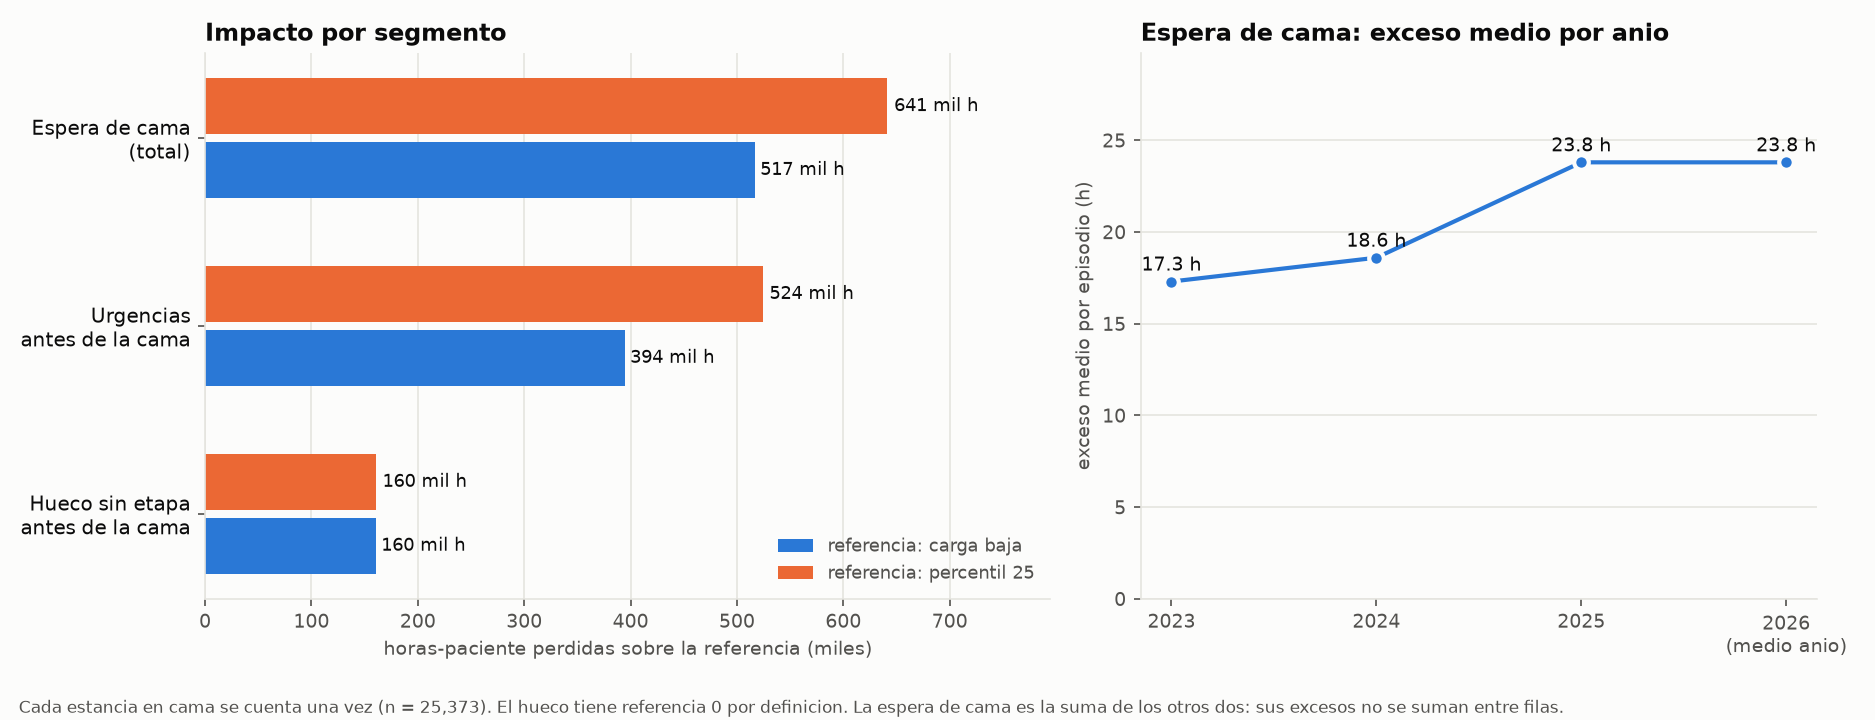
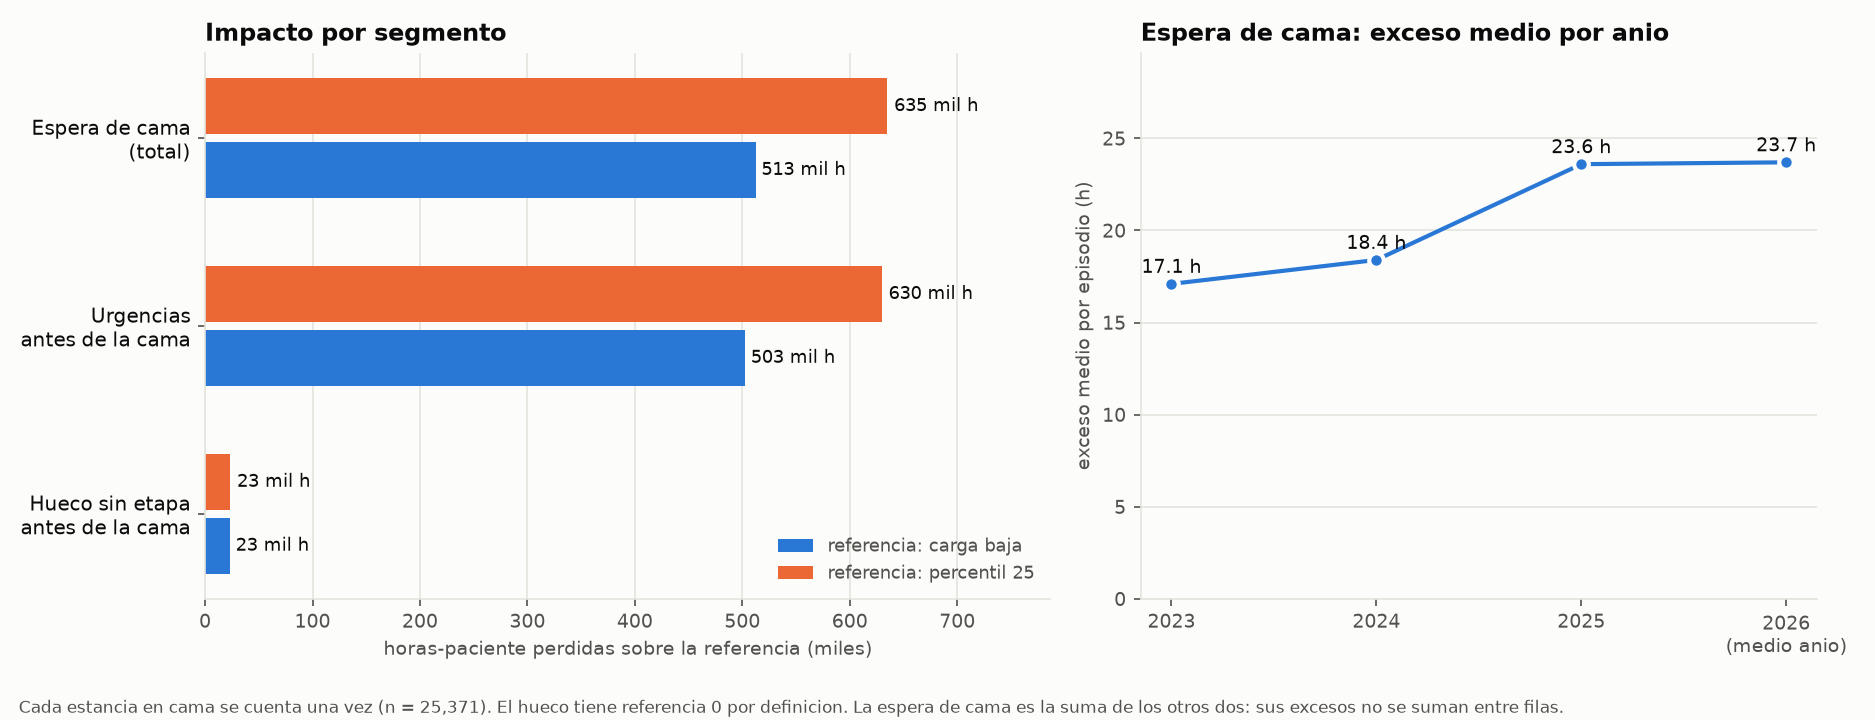
Corrige el hueco sin etapa antes de la cama: era un artefacto de las estancias duplicadas (1 % de las horas de espera, no 21 %); se recalculan segmentos, ranking y diagnostico

diff --git a/src/preparar_variables.py b/src/preparar_variables.py
@@ -306,6 +306,22 @@ ep.loc[_ok, "espera_cama_h"] = ((ep.ini_hosp_est - ep.ini_est).dt.total_seconds(
 _hueco = _vieja.drop_duplicates("estancia_id").set_index("estancia_id").hueco_antes_hosp_h
 ep.loc[_ok, "hueco_antes_hosp_h"] = ep.loc[_ok, "estancia_id"].map(_hueco).values
 ep.loc[cambia_de, ["espera_cama_h", "hueco_antes_hosp_h"]] = np.nan
+# v2.6 (7-nov-2026): el HUECO sin etapa antes de la cama se mide en el PROPIO registro conservado (la persona real): inicio de cama de la estancia menos el fin
+# mas tardio de sus etapas previas (ER/TU) en ese registro. Antes se copiaba el de otro registro de la estancia (_vieja, el de id menor, es decir la OTRA persona), cuya
+# visita de urgencias terminaba antes de que empezara la cama replicada: inflaba el hueco de 1,7 % a 18 % de las estancias y de 1 % a 20 % de las horas de espera.
+_bl = pd.read_csv(PROC / "bloques.csv", usecols=K + ["etapa", "ini", "fin"], parse_dates=["ini", "fin"])
+_bl = _bl[_bl.etapa.isin(["ER", "TU", "HOSP"])]
+_b = _bl.merge(ep.loc[ep.estancia_unica & ep.hospitalizado, K], on=K)
+_ih = _b[_b.etapa == "HOSP"].groupby(K).ini.min().rename("_ih").reset_index()
+_b = _b.merge(_ih, on=K)
+_fp = _b[(_b.etapa != "HOSP") & (_b.ini < _b._ih)].groupby(K).fin.max()
+_fp_ep = pd.Series(list(zip(ep.visit_occurrence_id, ep.episodio))).map(_fp.to_dict()).values
+_fp_ep = pd.to_datetime(_fp_ep)
+_mh = (ep.estancia_unica & ep.hospitalizado & ep.espera_cama_h.notna()).values & ~pd.isna(_fp_ep)
+ep["hueco_antes_hosp_h"] = np.nan
+ep.loc[_mh, "hueco_antes_hosp_h"] = ((ep.ini_hosp_est[_mh] - pd.Series(_fp_ep, index=ep.index)[_mh]).dt.total_seconds() / 3600).clip(lower=0)
+print(f"hueco sin etapa (registro conservado): {int(_mh.sum())} estancias | con hueco > 1 h: {100 * (ep.hueco_antes_hosp_h > 1).sum() / _mh.sum():.1f} % | "
+      f"horas de hueco / horas de espera: {100 * ep.hueco_antes_hosp_h.sum() / ep.loc[_mh, 'espera_cama_h'].sum():.1f} %")
 _col = f"espera_mas_{UMBRAL_ESPERA_H}h"
 ep[_col] = np.where(ep.espera_cama_h.notna(), (ep.espera_cama_h > UMBRAL_ESPERA_H).astype(float), np.nan)
 # Fusion: los dos registros suelen repartirse la informacion (uno trae diagnosticos y laboratorios, el otro procedimientos).

diff --git a/src/construir_segmentos.py b/src/construir_segmentos.py
@@ -103,9 +103,15 @@ if abs(len(ep) - N_ESPERADO) / N_ESPERADO > 0.02:
     print(f"  AVISO: se esperaban ~{N_ESPERADO} episodios (diferencia mayor al 2 %)")
 
 # v1.2: llegada y cama a nivel de ESTANCIA (el minimo entre los registros gemelos del pipeline), asi la espera no depende de cual registro se conserve
+# v1.3 (7-nov-2026): la estancia unica sale de tabla_episodios.parquet (regla v4.0: se conserva el registro de la PERSONA REAL; edad, sexo y el hueco antes de la cama
+# son entonces los de esa persona). Antes salia de episodios.csv, donde se conserva el de id menor (la otra persona del par): su hueco era de 62 % de las estancias.
 _pip = PROC / "episodios.csv"
-if _pip.exists() and "ini_est" in pd.read_csv(_pip, nrows=1).columns:
-    _p = pd.read_csv(_pip, usecols=K + ["estancia_unica", "estancia_gemela", "ini_est", "ini_hosp_est"], parse_dates=["ini_est", "ini_hosp_est"])
+_par = PROC / "tabla_episodios.parquet"
+if _par.exists() or (_pip.exists() and "ini_est" in pd.read_csv(_pip, nrows=1).columns):
+    if _par.exists():
+        _p = pd.read_parquet(_par, columns=K + ["estancia_unica", "estancia_gemela", "ini_est", "ini_hosp_est"])
+    else:
+        _p = pd.read_csv(_pip, usecols=K + ["estancia_unica", "estancia_gemela", "ini_est", "ini_hosp_est"], parse_dates=["ini_est", "ini_hosp_est"])
     _p = _p.rename(columns={"estancia_unica": "_u", "estancia_gemela": "_g", "ini_est": "_ie", "ini_hosp_est": "_ihe"})
     ep = ep.merge(_p, on=K, how="left")
     _m = ep._ie.notna() & ep._ihe.notna() & ep.ini_hosp.notna()

diff --git a/CLAUDE.md b/CLAUDE.md
@@ -331,7 +331,7 @@ Resultado: 35.343 episodios hospitalizados → **25.777 estancias** (antes 27.95
 | Espera de cama mediana / p75 / p90 | 18,0 / 37,2 / 71,5 h | **18,6 / 37,9 / 73,9 h** |
 | Espera de cama > 24 h | 42,7 % | **43,7 %** |
 | Exceso medio de espera por episodio, 2023 → 2026 | 16,4 → 22,9 h (+40 %) | **17,3 → 23,8 h (+38 %)** |
-| Reparto de las horas de espera: urgencias / hueco sin etapa | 77 % / 23 % | **80 % / 21 %** |
+| Reparto de las horas de espera: urgencias / hueco sin etapa | 77 % / 23 % | ~~80 % / 21 %~~ **corregido el 7-nov: 98 % / 3 % (99 % / 1 % hasta el 9-abr-2026), ver 4.12** |
 | Altas entre 14:00 y 18:59 / antes del mediodía | 61,5 % / 15 % | **62,7 % / 14 %** |
 | Escenario de altas (30 % de la tarde pasa a la mañana) | 5,5 camas libres a las 12 h | **5,1** (con ~103 camas ocupadas a esa hora) |
 | Ley de Little: ingresos × estancia | 21,7 × 5,46 ≈ 119 | **19,8 × 5,31 ≈ 105** |
@@ -396,6 +396,20 @@ Documentos: `docs/ocupacion_por_zona.md`, `docs/capacidad_efectiva.md`, `docs/di
 - **Supervivencia en urgencias (`docs/supervivencia_urgencias.md`):** quedarse con los episodios con hora de salida subestima la duración: mediana 9,6 h y p90 45 h frente a 11,2 h y 81 h con Kaplan-Meier (71 h ponderado). El 50 % de los episodios no tiene ningún tiempo en urgencias y no hay método que lo recupere (cotas de 0 a 24 h de mediana). Tener información depende de laboratorios, tipo de visita y edad (AUC 0,70).
 - **Fin de semana:** altas por 100 camas −27 % el domingo y −34 % en festivos; la estancia de quien entra a cama en sábado es +12 %; efecto estimado de ~1–2 camas equivalentes (cota alta); las esperas largas no mejoran en fin de semana.
 
+### 4.12 Corrección del «hueco sin etapa» antes de la cama (7-nov-2026)
+**Qué se creía:** que el 21 % de las horas de espera de cama (18–24 % de los hospitalizados) era tiempo sin ninguna etapa registrada justo antes de la hospitalización.
+**Qué era:** un artefacto de las estancias gemelas. El hueco se calcula como (inicio de cama de la estancia) − (fin de la última etapa de urgencias del registro). En el registro de la
+**persona real** (el conservado, v4.0) la etapa de urgencias termina en el mismo instante en que empieza la cama (hueco de 1 minuto o menos en el 97,7 % de las estancias). En los registros
+gemelos de la **otra** persona el hueco existe en el 62,5 %, porque la hospitalización replicada cae sobre una visita de urgencias ajena que terminó antes.
+**Dónde estaba el error:** (1) `preparar_variables.py` copiaba el hueco del registro de id menor (la otra persona) al conservado en el 16,5 % de las estancias; (2) `construir_segmentos.py`
+tomaba la estancia conservada de `episodios.csv` (id menor) y no de `tabla_episodios.parquet` (persona real). Corregidos: `preparar_variables.py` v2.6 y `construir_segmentos.py` v1.3.
+**Medida correcta (periodo confiable, 22.819 estancias):** hueco > 1 h en el **1,7 %** de las estancias y **1,1 %** de las horas de espera; urgencias antes de la cama, 98,9 %. En todo el periodo
+(con los meses desde el 10-abr-2026) es 3,0 % de las horas; desde el 10-abr sube a 31 % de las estancias porque el registro de etapas está degradado (4.9).
+**Qué NO cambia:** la espera de cama (mediana 18,6 h, p90 73,9 h): es la misma con el registro propio o con el de la estancia (17,6 y 17,7 h en el chequeo con todos los registros). El exceso medio
+de espera, 17,1 h (2023) a 23,7 h (2026), cambia en una décima. Urgencias antes de la cama sigue liderando todas las referencias y cortes.
+**Qué cambia:** el cuello de botella es casi por completo **urgencias antes de que se asigne la cama** (98 %), no una mezcla con tiempo sin registro; las preguntas 5 y 11 al HUN pierden sentido.
+Respaldo de los resultados anteriores en `resultados/respaldo_antes_hueco/` y `datos/procesados/respaldo_antes_hueco/` (no se suben a git).
+
 ## 5. Decisiones de método (ya tomadas, no reabrir sin un motivo nuevo)
 
 1. Unidad de análisis: **episodio** = atención continua de un paciente dentro de una visita
@@ -414,7 +428,8 @@ Documentos: `docs/ocupacion_por_zona.md`, `docs/capacidad_efectiva.md`, `docs/di
    (copias, etapas abiertas, corte de episodios, tope MAX_H = 2.160 h = 90 días). Se reportan mediana,
    p25, p75, p90 y media recortada 5–95 %.
 6. **Espera de cama** = inicio del episodio → inicio de la primera HOSP. Incluye el "hueco sin etapa"
-   justo antes de la HOSP.
+   justo antes de la HOSP (que, medido en el registro de la persona real, es ~1 % de las horas: ver 4.12). La etapa previa a la HOSP es TU en el 99,9 % de los casos y el
+   bloque TU termina en el mismo instante en que empieza la HOSP, por eso "desde el fin de la etapa previa" daría 0 y no sirve como espera.
 7. Diagnóstico principal = primer diagnóstico con concepto ≠ 0 por `condition_start_datetime`.
 8. Ocupación al llegar = cuántos bloques HOSP (o TU con duración) están abiertos en ese momento,
    calculada con las mismas etapas. Poco confiable fuera de feb-2023 a may-2026.
@@ -487,12 +502,12 @@ Documentos: `docs/ocupacion_por_zona.md`, `docs/capacidad_efectiva.md`, `docs/di
 ## 6b. Cuellos de botella: resultados (cifras actualizadas al 3-nov con la regla de estancia única v3.8 y la persona real v4.0; detalle en 4.8 y `docs/HALLAZGOS.md` 4; fases 2 a 5 de `docs/plan_de_accion.md`)
 
 - **Segmentos candidatos** (25.373 estancias con espera): espera de cama (mediana 18,6 h, p90 73,9 h), urgencias antes de la cama
-  (80 % de las horas de espera) y hueco sin etapa antes de la cama (6.585 estancias lo tienen, mediana 19,7 h
-  entre ellas; 21 % de las horas). La estancia en cama es servicio (va a la simulación) y urgencias sin hospitalizar solo
+  (~98 % de las horas de espera) y hueco sin etapa antes de la cama (**corregido el 7-nov, ver 4.12**: solo el 1,7 % de las estancias lo tiene en el periodo confiable y es el 1,1 % de las horas;
+  antes decíamos 21 %). La estancia en cama es servicio (va a la simulación) y urgencias sin hospitalizar solo
   es descriptiva (38 % medida, sesgada por tipo de visita, edad y año).
 - **Ranking:** el 64 % de las horas de espera de cama queda por encima de la referencia de carga baja (518 mil de 812 mil
   horas-paciente; cifra de HALLAZGOS 4.2). Urgencias antes de la cama lidera con las 4 referencias y los 3 cortes de episodio (72, 168, 336 h);
-  el peso del hueco (17–24 %) depende del corte.
+  el peso del hueco (corregido el 7-nov) es de 1,9 % con el corte de 72 h, 3,0 % con 168 h y 5,4 % con 336 h (incluye los meses posteriores al 9-abr-2026, donde el hueco sube a 31 % por el registro degradado).
 - **Tendencia:** exceso medio por episodio de 17,3 h (2023) a 23,8 h (2026), +38 %; el p90 sube de 61,6 a 81,9 h; la mediana
   se queda en 17–20 h. Empeoran los peores casos.
 - **Carga (Fase 4):** la mediana de espera sube de 14,2 h (decil con menos llegadas en 6 h) a 25,9 h (decil con más), +2,5 %
@@ -630,13 +645,13 @@ escenarios y supuestos escritos y se declara como limitación en el documento fi
 2. Etapas 3045729 con inicio = fin (ejemplo enviado al HUN; id omitido): ¿falta la hora de salida? ¿hay otra fecha de alta?
 3. Visitas solo con 9203 y sin nada clínico (ejemplo enviado al HUN; id omitido): ¿se fueron sin atención?
 4. ¿Qué proceso es 9203 y cuál 3045729? ¿El paso a 9201 es la asignación de cama o la llegada al piso?
-5. > 1 h sin etapa antes de 9201 en el 35 %: ¿dónde está el paciente? ¿se registra la asignación de cama?
+5. (Casi disuelta el 7-nov, ver 4.12: el hueco era un artefacto de las estancias duplicadas; en el registro de la persona real solo el 1,7 % tiene > 1 h sin etapa.) > 1 h sin etapa antes de 9201 en el 35 %: ¿dónde está el paciente? ¿se registra la asignación de cama?
 6. Fines con milisegundos en julio 2026: ¿pacientes aún hospitalizados al extraer?
 7. ¿Qué significa `visit_concept_id`? (ambulatorias con hospitalización; 3045729 con 43 h de mediana)
 8. Columnas del instructivo ausentes o vacías: ¿habrá versión actualizada?
 9. Número de camas y cubículos de urgencias por año (para ocupación en %).
 10. Rúbrica de evaluación, repo público, Power BI con datos agregados.
-11. ~1 de cada 4 hospitalizados tiene tiempo sin ninguna etapa antes de la cama (mediana 19,7 h entre ellos): ¿dónde está
+11. (Casi disuelta el 7-nov: era ~1,7 % y no ~1 de cada 4, ver 4.12.) ~1 de cada 4 hospitalizados tiene tiempo sin ninguna etapa antes de la cama (mediana 19,7 h entre ellos): ¿dónde está
     el paciente y se registra la asignación de cama? (ampliación de la 5)
 12. Hay episodios de varios días en urgencias (TU) sin hospitalización registrada (ej. una visita de enero de 2023 con 177 h): ¿esperan
     cama sin que se registre, observación prolongada o error?

diff --git a/docs/estructura_dashboard.md b/docs/estructura_dashboard.md
@@ -81,14 +81,14 @@ Es la parte que explica **todo lo que no se ve en las gráficas pero que las sos
 
 ## 1.3 Calidad de los datos y limpieza
 La página más importante del bloque: explica por qué las cifras del proyecto no coinciden con un conteo directo de la base. Una sección por problema, **cada una con cuatro partes: qué se vio, cuánto pesa, qué se decidió y qué efecto tuvo**.
-- **Problemas a cubrir:** visitas copia · estancias gemelas (la misma estancia registrada en dos personas distintas) · cuál es la persona real · etapas de urgencias sin hora de fin · etapas abiertas · visitas partidas · diagnósticos sin traducción y sin jerarquía · procedimientos sin fecha · caída total del sistema en dos días de marzo de 2026 · **el registro de etapas que se degrada desde el 10-abr-2026**.
+- **Problemas a cubrir:** visitas copia · estancias gemelas (la misma estancia registrada en dos personas distintas) · cuál es la persona real · etapas de urgencias sin hora de fin · etapas abiertas · visitas partidas · diagnósticos sin traducción y sin jerarquía · procedimientos sin fecha · el «hueco sin etapa» antes de la cama (era un artefacto de las estancias duplicadas) · caída total del sistema en dos días de marzo de 2026 · **el registro de etapas que se degrada desde el 10-abr-2026**.
 - **Explicación del periodo confiable (debe estar aquí, con su figura):** hasta el 9-abr-2026 el registro es estable: cerca de dos tercios de las visitas de urgencias tienen etapa de admisión (ER) y alrededor de un diez por ciento no tiene ninguna etapa. Desde el 10-abr las visitas registradas en la tabla de cabecera suben cerca de 40 % por día, pero la proporción de visitas con etapa ER baja y empeora más desde el 29-abr; los diagnósticos con código desaparecen desde mediados de mayo. Las visitas de cabecera no bajaron, por eso **no es que lleguen menos pacientes: falla el registro del detalle**. Como no se sabe la causa y los datos son estructuralmente distintos, esos días no se usan para estimar niveles, errores ni tendencias.
 - **Figuras obligatorias:** (1) embudo de datos de las etapas a las estancias únicas; (2) ocupación de camas antes y después de resolver las estancias gemelas; (3) visitas de urgencias frente a etapas ER por semana, con la línea vertical del 10-abr-2026.
 - **Fuente:** `CLAUDE.md` secciones 4.1 a 4.10; `docs/HALLAZGOS.md` sección 2; `powerbi/embudo_datos.csv`.
 
 ## 1.4 Las variables
 - **Lleva:** un **diccionario de variables** con buscador. Columnas: *nombre · qué significa en palabras simples · cómo se calculó · de qué tabla sale · se conoce al llegar (sí/no) · limitación*.
-- **Grupos de variables:** unidades (visita, episodio, estancia) · tiempos (espera de cama, urgencias antes de la cama, hueco sin etapa, estancia) · estado del episodio · ruta · calendario (hora, franja, día, festivos, Carnaval) · paciente (edad, sexo, tipo de visita) · carga del hospital (llegadas previas, ocupación) · clínicas (grupo de diagnóstico, laboratorios, procedimientos) · agregados diarios.
+- **Grupos de variables:** unidades (visita, episodio, estancia) · tiempos (espera de cama, urgencias antes de la cama, hueco sin etapa —casi inexistente en el periodo confiable, ver 1.3—, estancia) · estado del episodio · ruta · calendario (hora, franja, día, festivos, Carnaval) · paciente (edad, sexo, tipo de visita) · carga del hospital (llegadas previas, ocupación) · clínicas (grupo de diagnóstico, laboratorios, procedimientos) · agregados diarios.
 - **Dos reglas que se explican aquí:** un modelo «al llegar» solo usa lo que se sabe al llegar; los totales de laboratorios y diagnósticos de una visita crecen con la estancia y por eso no se usan como factor.
 - **Fuente:** `CLAUDE.md` secciones 3, 5 y 7; `powerbi/diccionario_tablas.md`.
 
@@ -118,7 +118,7 @@ La página más importante del bloque: explica por qué las cifras del proyecto 
 
 ## 2.3 Espera de cama y cuello de botella
 - **Controles:** año · tipo de visita · grupo de edad.
-- **Gráficas:** tarjetas (mediana, percentil 90, % que espera más de 24 y de 48 h); línea mensual de mediana y percentil 90; histograma por tramos de espera; barras apiladas del reparto de la espera (urgencias antes de la cama / hueco sin etapa); ranking de segmentos con las cuatro referencias; exceso medio por año.
+- **Gráficas:** tarjetas (mediana, percentil 90, % que espera más de 24 y de 48 h); línea mensual de mediana y percentil 90; histograma por tramos de espera; barras apiladas del reparto de la espera (urgencias antes de la cama / hueco sin etapa; el hueco es ~1–3 %); ranking de segmentos con las cuatro referencias; exceso medio por año.
 - **Contexto:** qué es el exceso y la referencia; de dónde viene la mayor parte de las horas (cola larga); los peores casos empeoran y la mediana no; qué no dice (si la espera es clínica o por falta de cama).
 - **Fuente:** `bi_estancias.csv`, `ranking_cuellos.csv`, `descomposicion_espera.csv`, `exceso_por_anio.csv`.
 

diff --git a/docs/HALLAZGOS.md b/docs/HALLAZGOS.md
@@ -21,7 +21,7 @@ señala qué script o consulta la produciría. Distingue siempre *asociación* d
 3. **Cuello de botella (definición del proyecto):** un segmento donde el paciente espera un recurso, con exceso sobre una referencia
    de "cuando funciona bien", impacto alto (volumen × retraso) y que se agrava con la carga.
 4. **El principal cuello de botella es la espera de cama:** mediana de **18,6 h** y percentil 90 de **73,9 h** desde que llega el
-   paciente hasta que entra a cama. El 80 % de esas horas es tiempo en urgencias y el 21 % es tiempo sin ninguna etapa registrada.
+   paciente hasta que entra a cama. Casi todas esas horas (98 %) son tiempo en urgencias antes de que se asigne la cama; el tiempo sin ninguna etapa registrada es ~1 % (corregido el 7-nov, `CLAUDE.md` 4.12).
 5. **Los peores casos empeoran:** la espera mediana casi no cambia (17–19 h) pero el percentil 90 sube de 61 h (2023) a 80 h (2026).
 6. **Las altas son tardías:** el 62,7 % de las altas ocurre entre las 14:00 y las 18:59 y solo el 14 % antes del mediodía; las camas
    se asignan a las 17–18 h. Quien llega a media tarde espera más (mediana de ~25 h frente a 12–15 h de madrugada).
@@ -101,8 +101,8 @@ controles sobre la base y sobre los CSV exportados; Q1 y Q2 también coincidiero
 - **Estancia en cama (episodio):** mediana 71 h, percentil 75 de 144 h, percentil 90 de 280 h, media 5,2 días.
 - **Urgencias sin hospitalizar (solo el 38 % tiene duración):** mediana 9,6 h, percentil 90 de 45 h. Está sesgada: los niños (30 % medidos) y las
   visitas ambulatorias (10 %) están subrepresentados frente a adultos mayores de 65 (48 %).
-- **Entre etapas casi no hay tiempo muerto:** ER>TU 99 % pegadas; HOSP>HOSP 99 %; TU>TU 94 %. La excepción es TU>HOSP: 23,8 % de los
-  hospitalizados tiene más de 1 h sin ninguna etapa antes de la cama (mediana de 19,7 h entre los que tienen hueco).
+- **Entre etapas casi no hay tiempo muerto:** ER>TU 99 % pegadas; HOSP>HOSP 99 %; TU>TU 94 %. La supuesta excepción TU>HOSP (23,8 % con más de 1 h sin etapa) **era un artefacto de las estancias duplicadas**: en el registro de la persona real solo el 1,7 % de las
+  estancias tiene más de 1 h sin etapa antes de la cama (`CLAUDE.md` 4.12).
 - **Hospitalizados:** ~20 ingresos a cama por día.
 
 ---
@@ -126,7 +126,7 @@ simulación de camas). Fuente: `src/construir_segmentos.py`, `src/ranking_cuello
 | Estancia en cama | 25.777 | 40,0 | 70,7 | 143,9 | 280,3 |
 
 - El 43,7 % espera más de 24 h y el 19 % más de 48 h.
-- Urgencias antes de la cama concentra el **80 %** de las horas de espera; el hueco, el 21 %. Lidera con las 4 referencias.
+- Urgencias antes de la cama concentra el **98 %** de las horas de espera; el hueco, ~1–3 % (antes se decía 80 % y 21 %: corrección del 7-nov, `CLAUDE.md` 4.12). Lidera con las 4 referencias.
 - Con la referencia de carga baja (mediana de 14,7 h), el **64 %** de las horas de espera de cama (518 mil de 812 mil horas-paciente) es exceso.
 
 ### 4.3 Tendencia: empeoran los peores casos

diff --git a/docs/recomendaciones.md b/docs/recomendaciones.md
@@ -12,7 +12,7 @@ su número de camas el 29-oct (106 y 58 camillas), pero nuestra ocupación lo su
 | # | Hallazgo | Cifra |
 |---|---|---|
 | 1 | Esperar cama es largo y los peores casos empeoran | Espera mediana 18,6 h, percentil 90 de 73,9 h; el exceso medio sube de 17,3 h (2023) a 23,8 h (ene–abr 2026), +38 % |
-| 2 | Casi todo el tiempo está dentro de urgencias, no en huecos entre etapas | 80 % de las horas de espera es tiempo en urgencias antes de la cama; 21 % es tiempo sin ninguna etapa registrada |
+| 2 | Casi todo el tiempo está dentro de urgencias, no en huecos entre etapas | 98 % de las horas de espera es tiempo en urgencias antes de la cama; el tiempo sin ninguna etapa registrada es ~1–3 % (corregido el 7-nov, `CLAUDE.md` 4.12) |
 | 3 | Las altas son tardías y la cama se asigna por la tarde | 62,7 % de las altas entre las 14:00 y las 18:59, solo 14 % antes del mediodía; la cama se asigna a las 17–18 h sin importar cuándo llegó el paciente |
 | 4 | Quien llega a media tarde espera más | Mediana de 25 h al llegar entre las 13 y las 16 h contra 12–15 h de madrugada; a las 16 h, 72 % recibe cama al día siguiente o después |
 | 5 | La ocupación sube por la estancia, no por más pacientes | Camas ocupadas 94 (2023) a 105 (2025); estancia media 4,57 a 5,31 días (+16 %); ingresos ~20 por día sin crecer |

diff --git a/docs/diagnostico_cuello_botella.md b/docs/diagnostico_cuello_botella.md
@@ -16,7 +16,7 @@ Salidas (solo agregados, en `resultados/tablas/`): `cuello_botella_<desde>_<hast
 5. **Qué hacer.** Frases condicionadas por las cifras del periodo y ligadas a `docs/recomendaciones.md`; si una cifra no activa la regla, la frase no sale.
 
 ## Pruebas hechas
-- **Periodo confiable completo:** cuello de botella = urgencias antes de la cama (72 % del exceso de los dos componentes); las esperas de más de 48 h son el 20 % de los pacientes y el 75 % de las horas en exceso; 62,6 % de las altas entre las 14 y las 19 h; la ocupación supera las 106 camas el 23 % de las horas.
+- **Periodo confiable completo:** cuello de botella = urgencias antes de la cama (98 % del exceso de los dos componentes; el hueco sin etapa es casi inexistente tras la corrección del 7-nov); las esperas de más de 48 h son el 20 % de los pacientes y el 75 % de las horas en exceso; 62,6 % de las altas entre las 14 y las 19 h; la ocupación supera las 106 camas el 23 % de las horas.
 - **2025 frente a la referencia de 2023:** el cuello de botella **no cambió**; el exceso medio por estancia pasa de 16,9 a 22,6 h; las disparadas son el 14,7 % (en la referencia serían el 10 %); la ocupación supera 106 camas el 42 % de las horas, coincidente con `CLAUDE.md` 4.8.
 
 ## Límites (declararlos siempre)

diff --git a/powerbi/especificacion_paginas.md b/powerbi/especificacion_paginas.md
@@ -26,7 +26,7 @@ título = conclusión; tema `tema.json`; azul = espera, naranja = referencia o e
 ## Página 4 — «Quién espera más y cuándo» — LISTO (la parte explicativa mejora con A4)
 - Histograma: tramos de `bi_estancias[espera_h]` (0–6, 6–12, 12–24, 24–48, 48–72, >72) con `[Estancias]`.
 - Líneas/columnas: por `bi_estancias[hora_llegada]` `[Espera mediana h]` y `[Espera p90 h]`; segunda vista `asignacion_cama_por_hora_llegada[pct_cama_dia_siguiente_o_mas]` (tarde ≈ la mitad recibe cama al día siguiente).
-- Barras: por `grupo_edad` y `tipo_visita`. Apiladas: `[Horas urgencias]` vs `[Horas hueco]` (79 % / 21 %).
+- Barras: por `grupo_edad` y `tipo_visita`. Apiladas: `[Horas urgencias]` vs `[Horas hueco]` (98 % / ~3 %; el hueco era 21 % antes de la corrección del 7-nov, ver `CLAUDE.md` 4.12).
 - Barras horizontales: `importancia_factores[perdida_r2_si_se_quita]` por `factor`. **Nota fija obligatoria:** «Asociación, no causa. Los factores explican solo el 16 % de la variación».
 - A4 (Anthony) puede reemplazar el modelo explicativo: ESPERA, no inventar.
 
